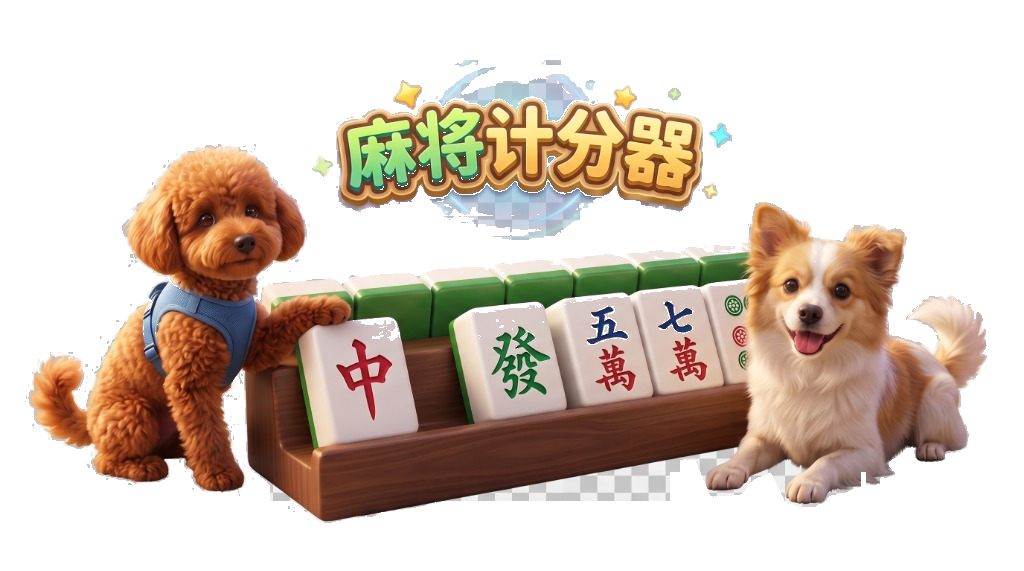
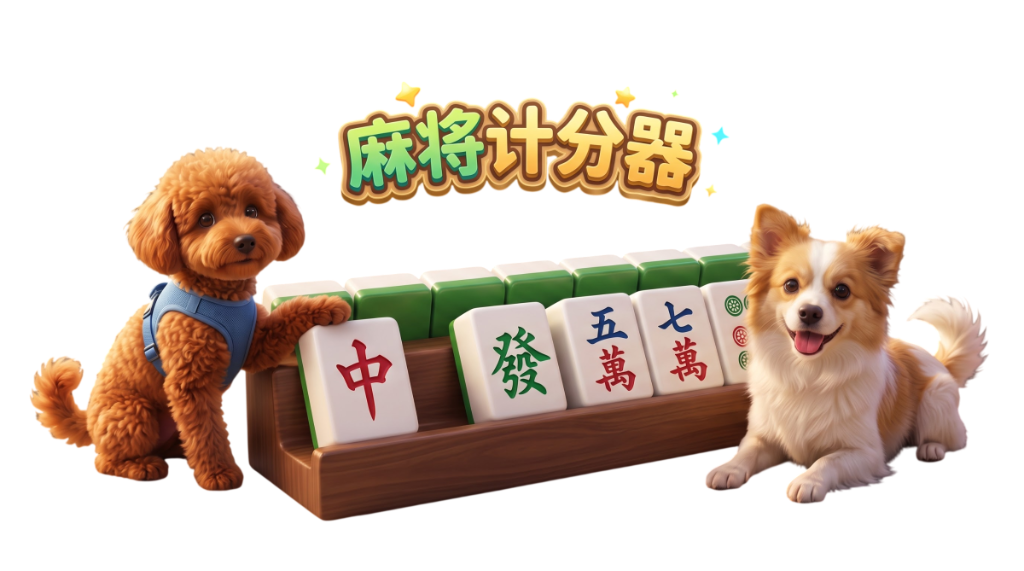
feat(ui): apply user-provided transparent PNG headers for Chinese and English

diff --git a/index.html b/index.html
@@ -4,7 +4,7 @@
     <meta charset="UTF-8">
     <meta name="viewport" content="width=device-width, initial-scale=1.0, maximum-scale=1.0, user-scalable=no">
     <title>🐶 🀄 麻将计分器 🐕</title>
-    <link rel="stylesheet" href="/style.css?v=28">
+    <link rel="stylesheet" href="/style.css?v=29">
 </head>
 <body>
     <div class="container">
@@ -16,7 +16,7 @@
         <!-- Header Banner Container (Dual Language Flanking Dogs & Mahjong Rack) -->
         <header class="header-banner-container" id="headerBanner">
             <div class="banner-wrapper" id="bannerWrapper">
-                <img src="/images/header-zh.png?v=28" class="header-theme-banner" alt="麻将计分器" id="headerBannerImg">
+                <img src="/images/header-zh.png?v=29" class="header-theme-banner" alt="麻将计分器" id="headerBannerImg">
                 <!-- Interactive Hotspots for Poodle, Fluffy Pup and Title -->
                 <div class="pet-hotspot hotspot-left-poodle" id="hotspotLeftPoodle" title="泰迪贵宾"></div>
                 <div class="pet-hotspot hotspot-right-fluffy" id="hotspotRightFluffy" title="花色小狗"></div>
@@ -40,6 +40,6 @@
             </div>
         </main>
     </div>
-    <script src="/app.js?v=28"></script>
+    <script src="/app.js?v=29"></script>
 </body>
 </html>

diff --git a/app.js b/app.js
@@ -121,7 +121,7 @@ function toggleLanguage() {
     // Update header banner image according to language
     const headerBannerImg = document.getElementById('headerBannerImg');
     if (headerBannerImg) {
-        headerBannerImg.src = currentLang === 'en' ? '/images/header-en.png?v=28' : '/images/header-zh.png?v=28';
+        headerBannerImg.src = currentLang === 'en' ? '/images/header-en.png?v=29' : '/images/header-zh.png?v=29';
         headerBannerImg.alt = currentLang === 'en' ? 'Mahjong Scorer' : '麻将计分器';
     }
 
